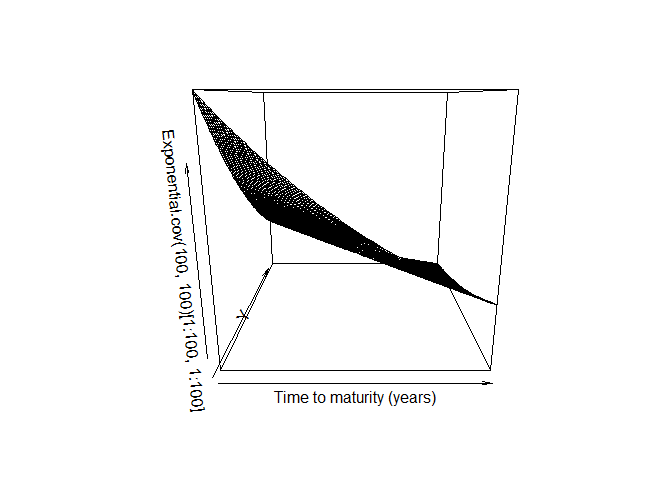
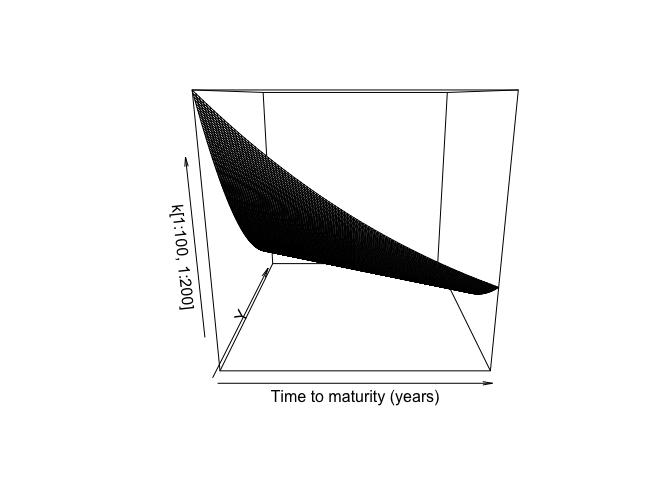
RMD Changes

Changed region(s): [[0.2188, 0.1875, 0.75, 0.875], [0.6562, 0.1875, 0.7812, 0.2188], [0.375, 0.5625, 0.4062, 0.625]]

diff --git a/README.md b/README.md
@@ -6,9 +6,9 @@
 <!-- badges: start -->
 
 The R package `FDATSM` enables quantitative analysis of covariations of
-difference returns as described in the articles [**Robust Functional
-Data Analysis for Stochastic Evolution Equations in Infinite
-Dimensions**](https://arxiv.org/pdf/2401.16286) by [Dennis
+difference returns as described in the articles [**Dynamically
+Consistent Analysis of Realized Covariations in Term Structure
+Models**](https://arxiv.org/abs/2406.19412) by [Dennis
 Schroers](https://github.com/dschroers). The data inputs should be yield
 or discount data over over a prespecified time span (e.g. a quarter, a
 year, a decade) and an upper limit on the time to maturity (e.g. 5
@@ -66,13 +66,14 @@ by an integral kernel operator with integral kernel $q\in L^2([0,1]^2)$
 taking the Gaussian form
 
 ``` math
-q(x,y)= \exp(-10 (x-y)^2)
+q(x,y)= \exp(-10 (x-y)^2),
 ```
 
 which can be plotted:
 
 ``` r
-persp(z=  Gaussian.cov(.1,100,100)[1:100,1:100],xlab= "Time to maturity (years)", zlab = "", ylab = "")
+q<-Gaussian.cov(.1,100,100)
+persp(z=  q[1:100,1:100],xlab= "Time to maturity (years)", zlab = "", ylab = "")
 ```
 
 <img src="man/figures/README-unnamed-chunk-1-1.png" width="100%" />
@@ -81,10 +82,10 @@ The jump process $J$ is a compound Poisson process in $L^2(0,1)$ and is
 given as
 
 ``` math
-J_t = \sum_{i=1}^{N_t}\chi_i
+J_t = \sum_{i=1}^{N_t}\chi_i,
 ```
 
-, where $N$ is a Poisson process with intensity $\lambda>0$ and jumps
+where $N$ is a Poisson process with intensity $\lambda>0$ and jumps
 $\chi\sim(N(0,C))$ for a covariance operator $C$ in $L^2(0,1)$ given as
 an integral kernel operator via the kernel
 
@@ -97,7 +98,8 @@ such that $\|c\|_{L^2([0,1]^2)}=1$.
 which can be plotted:
 
 ``` r
-persp(z=  Exponential.cov(100,100)[1:100,1:100],xlab= "Time to maturity (years)")
+k<-Exponential.cov(100,100)
+persp(z=k[1:100,1:200],xlab= "Time to maturity (years)")
 ```
 
 <img src="man/figures/README-unnamed-chunk-2-1.png" width="100%" />
